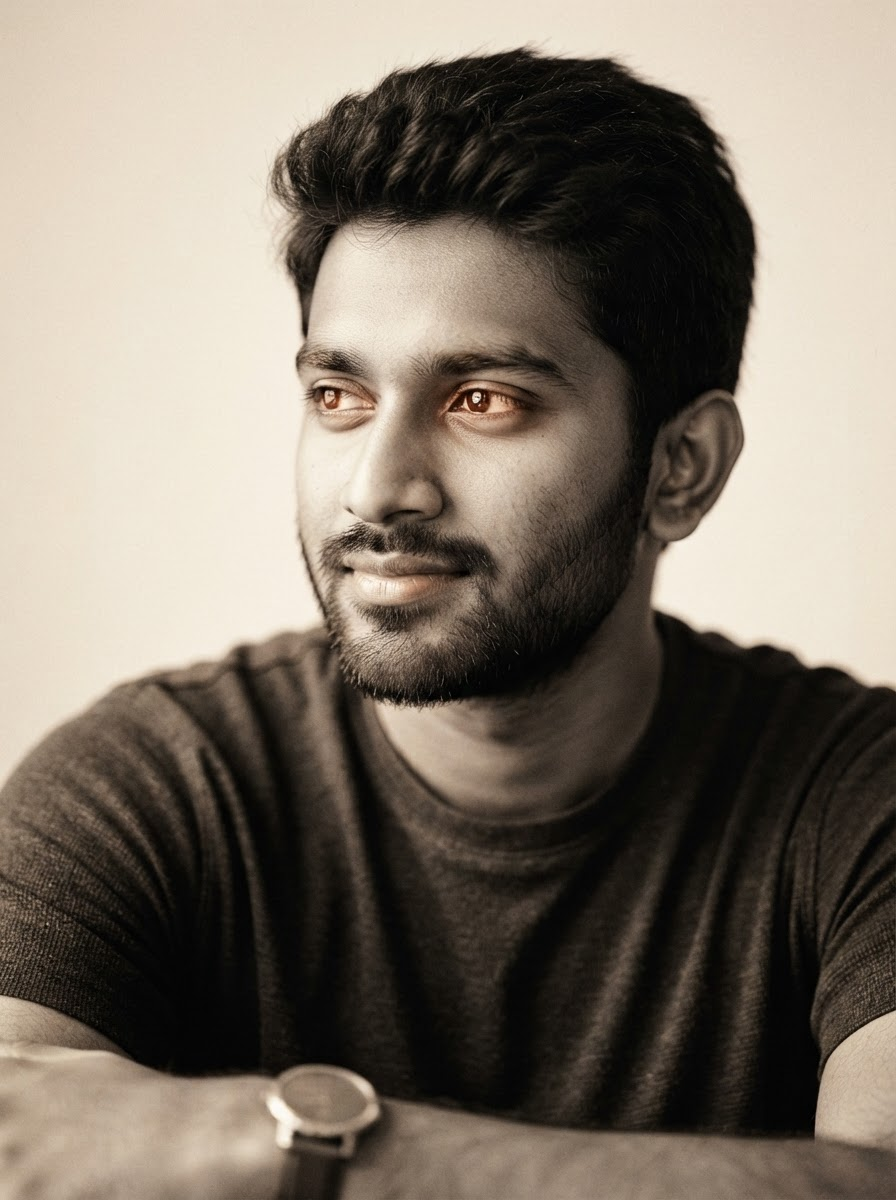
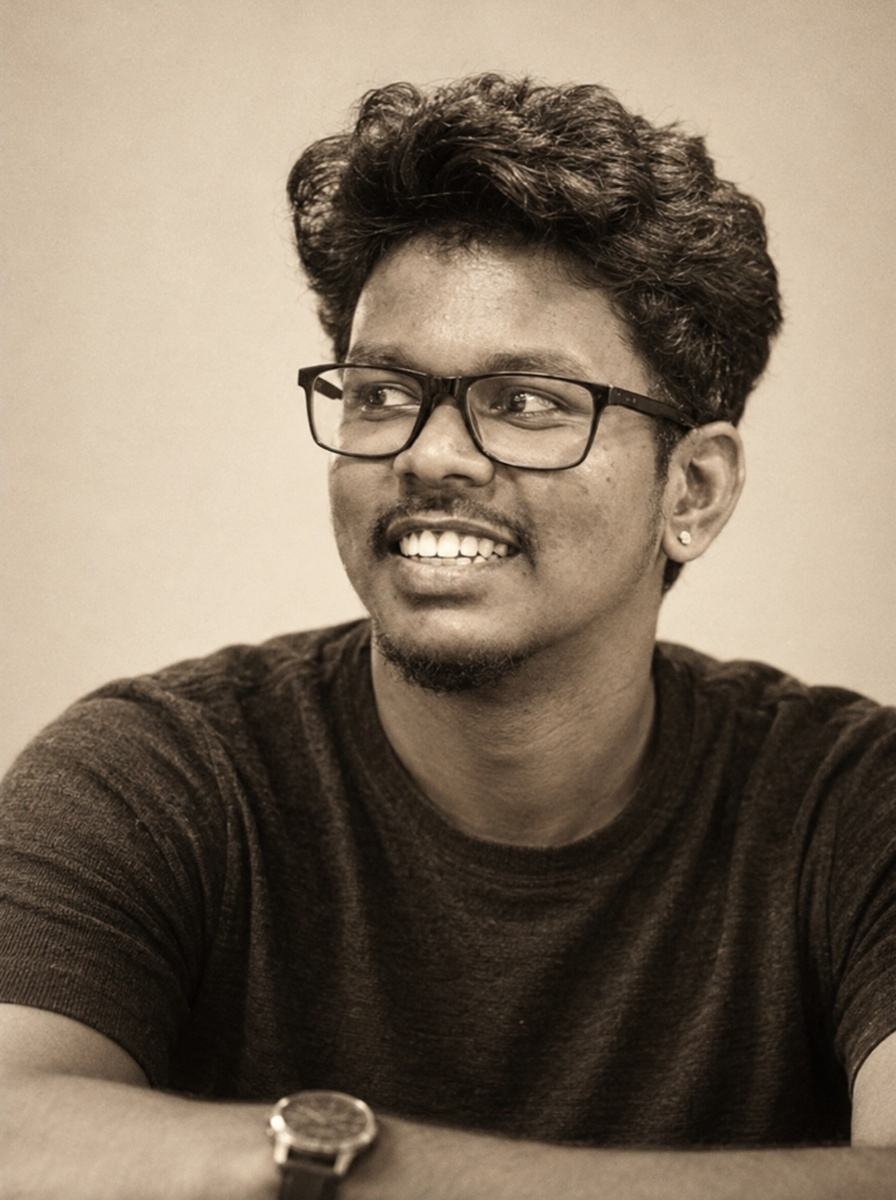
updated one

diff --git a/src/components/sections/Hero.tsx b/src/components/sections/Hero.tsx
@@ -18,54 +18,70 @@ const skillsTicker = [
   'Linux',
 ];
 
+const chipsList = [
+  'React',
+  'AWS',
+  'MySQL',
+  'React Native',
+  'Java',
+  'Python',
+  'TypeScript',
+  'Docker',
+];
+
 export function Hero() {
   return (
     <>
-      <section id="home" className="relative pt-2 lg:pt-4">
+      <section id="home" className="relative pt-2 sm:pt-4 lg:pt-6">
         <div className="in">
-          <div className="relative min-h-[580px] sm:min-h-[620px] lg:min-h-[640px]">
+          <div className="grid gap-6 sm:gap-8 lg:grid-cols-[1fr_330px] xl:grid-cols-[1fr_380px] 2xl:grid-cols-[1fr_420px] lg:gap-10 xl:gap-14 lg:items-start">
             {/* Monumental Heading */}
             <h1
-              className="anim-up relative z-[2] pt-4 sm:pt-6 font-normal uppercase leading-[0.94] tracking-[-0.04em] text-graphite lg:pt-8"
-              style={{ fontSize: 'clamp(3rem, 10.5vw, 150px)', animationDelay: '0.2s' }}
+              className="anim-up font-normal uppercase leading-[0.92] tracking-[-0.04em] text-graphite lg:col-start-1 lg:row-start-1"
+              style={{
+                fontSize: 'clamp(2.75rem, 5.6vw, 110px)',
+                animationDelay: '0.2s',
+              }}
             >
               Sumanth<i className="block font-normal italic text-vermilion">R K</i>
             </h1>
 
             {/* Hero Portrait Plate */}
-            <div className="relative z-[1] mt-8 w-full max-w-[400px] overflow-hidden bg-[#16130f] shadow-[-10px_14px_30px_rgba(22,19,15,0.19)] lg:absolute lg:right-0 xl:right-[-20px] 2xl:right-[-36px] lg:top-0 lg:mt-0 lg:h-[620px] xl:h-[640px] lg:w-[380px] xl:w-[430px] lg:max-w-none">
-              <span className="portrait-par relative block h-[106%] w-full overflow-hidden">
-                <img
-                  src="/hero-portrait.jpg"
-                  alt="Sumanth R K"
-                  className="h-full w-full object-cover scale-[1.04]"
-                />
-              </span>
+            <div className="w-full max-w-[340px] sm:max-w-[380px] mx-auto lg:max-w-none lg:col-start-2 lg:row-start-1 lg:row-span-2">
+              <div className="relative w-full aspect-[3/4] max-h-[520px] sm:max-h-[560px] lg:max-h-[580px] xl:max-h-[620px] overflow-hidden bg-[#16130f] shadow-[-10px_14px_30px_rgba(22,19,15,0.19)]">
+                <span className="portrait-par relative block h-[106%] w-full overflow-hidden">
+                  <img
+                    src="/hero-portrait.jpg?v=2"
+                    alt="Sumanth R K"
+                    className="h-full w-full object-cover scale-[1.04]"
+                  />
+                </span>
+              </div>
             </div>
 
             {/* Intro & CTAs */}
             <div
-              className="anim-up relative z-[2] mt-8 max-w-[580px] lg:mt-[68px] xl:mt-[84px]"
+              className="anim-up max-w-[580px] lg:col-start-1 lg:row-start-2"
               style={{ animationDelay: '0.45s' }}
             >
-              <div className="mb-4 inline-flex items-center gap-[9px]">
+              <div className="mb-3.5 inline-flex items-center gap-[9px]">
                 <span className="h-[7px] w-[7px] rounded-full bg-vermilion animate-pulse" />
                 <span className="iv-label">Available for new opportunities</span>
               </div>
 
-              <div className="mb-4 flex flex-wrap gap-x-[18px] gap-y-2">
+              <div className="mb-3.5 flex flex-wrap gap-x-[18px] gap-y-2">
                 <span className="iv-label iv-signal">Full Stack Software Engineer</span>
                 <span className="iv-label iv-muted">Bengaluru, India</span>
                 <span className="iv-label iv-muted">12.9716° N / 77.5946° E</span>
               </div>
 
-              <p className="max-w-[520px] text-[17.5px] leading-[1.6] text-bodyink lg:text-[19px]">
+              <p className="max-w-[540px] text-[16.5px] leading-[1.6] text-bodyink sm:text-[17.5px] lg:text-[18.5px]">
                 I am a Full Stack Software Engineer who enjoys building secure, scalable, and
                 high-performance software. My work spans modern frontend development, backend
                 engineering, cloud infrastructure, and DevOps automation.
               </p>
 
-              <div className="mt-6 flex flex-wrap gap-3">
+              <div className="mt-5 sm:mt-6 flex flex-wrap gap-2.5 sm:gap-3">
                 <a
                   href="/Sumanth_RK_CV.pdf"
                   download="Sumanth_RK_CV.pdf"
@@ -94,20 +110,15 @@ export function Hero() {
                   Email
                 </a>
               </div>
-            </div>
 
-            {/* Bottom Chips */}
-            <div
-              className="anim-up relative z-[2] mt-8 flex flex-wrap items-center gap-2 lg:absolute lg:bottom-1.5 lg:left-0 lg:mt-0 lg:w-[720px] xl:w-[760px]"
-              style={{ animationDelay: '0.7s' }}
-            >
-              {['React', 'AWS', 'MySQL', 'React Native', 'Java', 'Python', 'TypeScript', 'Docker'].map(
-                (skill) => (
+              {/* Bottom Chips */}
+              <div className="mt-5 sm:mt-6 flex flex-wrap items-center gap-2">
+                {chipsList.map((skill) => (
                   <span key={skill} className="chip-ivory whitespace-nowrap">
                     {skill}
                   </span>
-                )
-              )}
+                ))}
+              </div>
             </div>
           </div>
         </div>
@@ -115,7 +126,7 @@ export function Hero() {
 
       {/* Skills Ticker Track */}
       <div className="in w-full">
-        <div className="mt-[34px] overflow-hidden whitespace-nowrap border-b border-t border-graphite py-[13px]">
+        <div className="mt-6 lg:mt-8 overflow-hidden whitespace-nowrap border-b border-t border-graphite py-[13px]">
           <div className="ticker-track">
             {[...skillsTicker, ...skillsTicker].map((skill, index) => (
               <span key={`${skill}-${index}`} className="inline-flex items-center gap-[30px]">

diff --git a/src/index.css b/src/index.css
@@ -72,21 +72,35 @@
 
 @media (min-width: 1024px) {
   .in {
-    padding-inline: 3.5rem;
+    padding-inline: 2.5rem;
+  }
+}
+
+@media (min-width: 1280px) {
+  .in {
+    max-width: 1220px;
+    padding-inline: 3rem;
   }
 }
 
 @media (min-width: 1440px) {
   .in {
-    max-width: 1240px;
+    max-width: 1340px;
     padding-inline: 3.5rem;
   }
 }
 
 @media (min-width: 1680px) {
   .in {
-    max-width: 1300px;
+    max-width: 1480px;
     padding-inline: 4rem;
+  }
+}
+
+@media (min-width: 1920px) {
+  .in {
+    max-width: 1560px;
+    padding-inline: 4.5rem;
   }
 }
 
